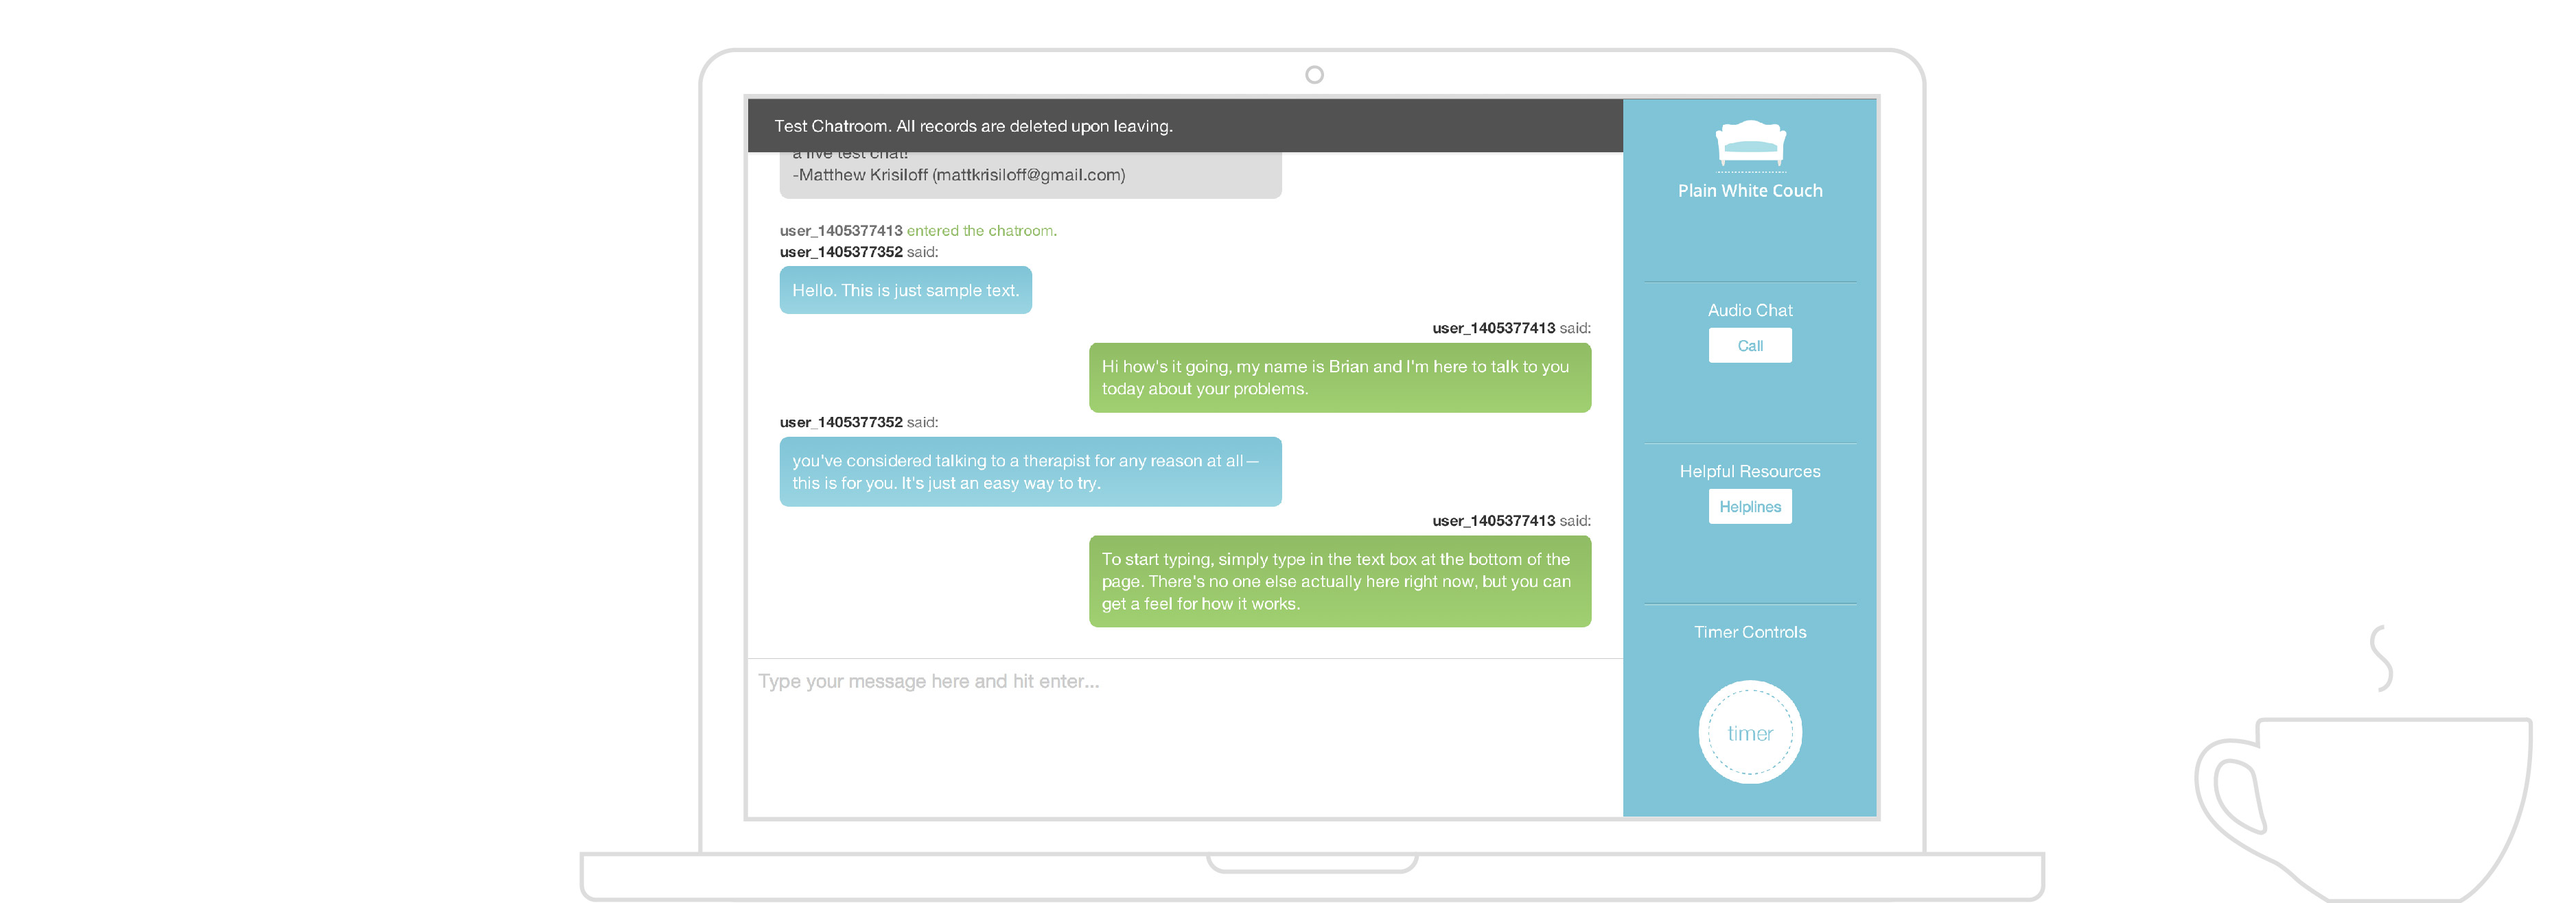
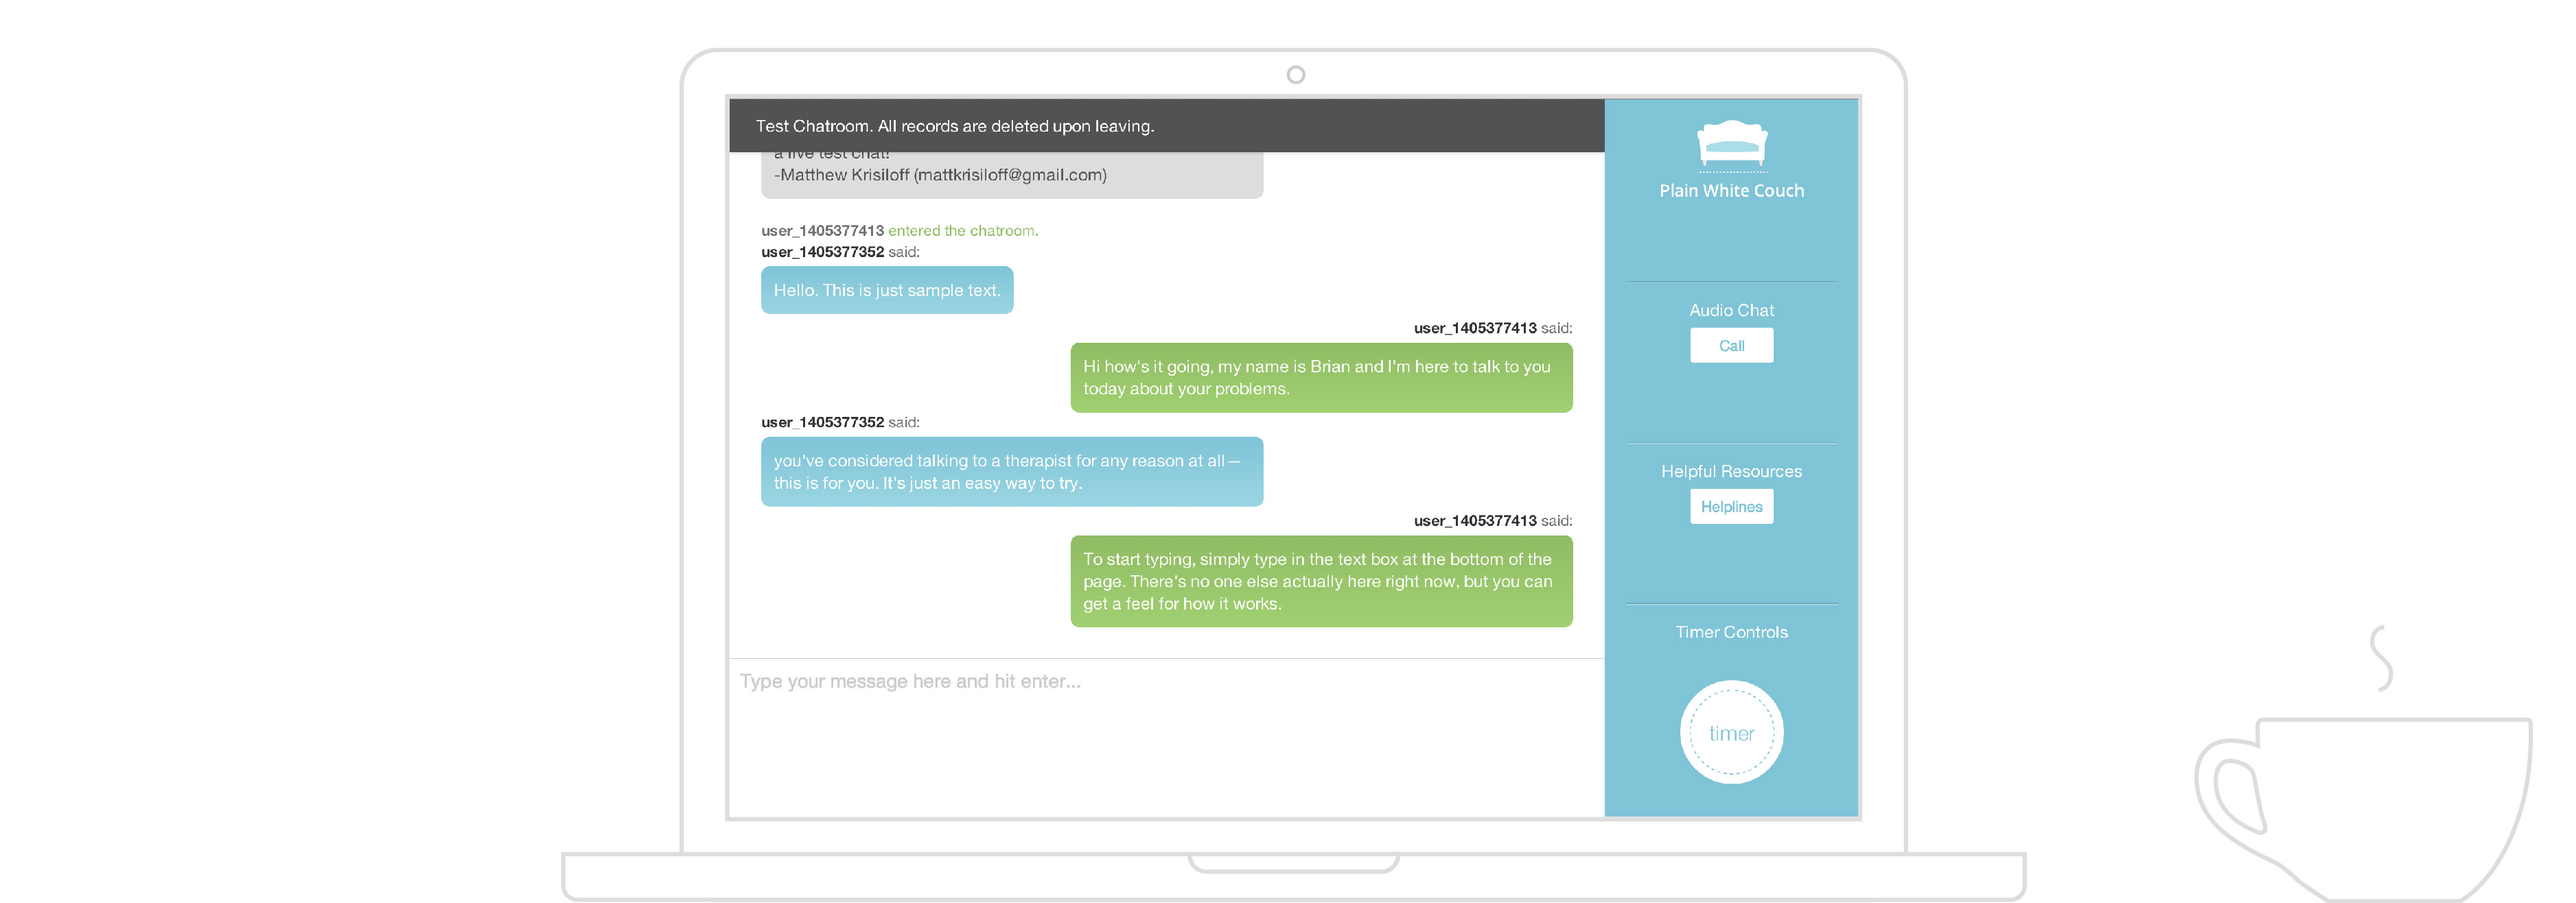
mobile op background coffee cup laptop

diff --git a/app/assets/stylesheets/static_pages.css.scss b/app/assets/stylesheets/static_pages.css.scss
@@ -737,9 +737,10 @@ p {
 	#panel2 {
 		.bg-container {
 			height: auto;
-			background-size: 1140px auto;
-			background-position: right;
+			background-size: 1000px auto;
+			background-position: bottom;
 			.container {
+				padding-bottom: 400px;
 				h2 {
 				}
 			}
@@ -763,7 +764,7 @@ p {
 @media only screen and (max-width: 960px) {
 	#panel2 {
 		.bg-container {
-			background-position: right bottom;
+			background-position: bottom;
 			
 			.container {
 				.columns {
@@ -820,11 +821,12 @@ p {
 		position: relative;
 		
 		.bg-container {
+			background-size: 900px auto;
 			
 			.container {
 				padding-right: 0px;
 				padding-top: 60px;
-				padding-bottom: 60px;
+				padding-bottom: 350px;
 				
 				h2 {
 					padding-right: 0;
@@ -914,8 +916,10 @@ p {
 	
 	#panel2 {
 		.bg-container {
+			background-size: 700px auto;
 			
 			.container {
+				padding-bottom: 300px;
 				
 				.chat-ui-container {
 				
